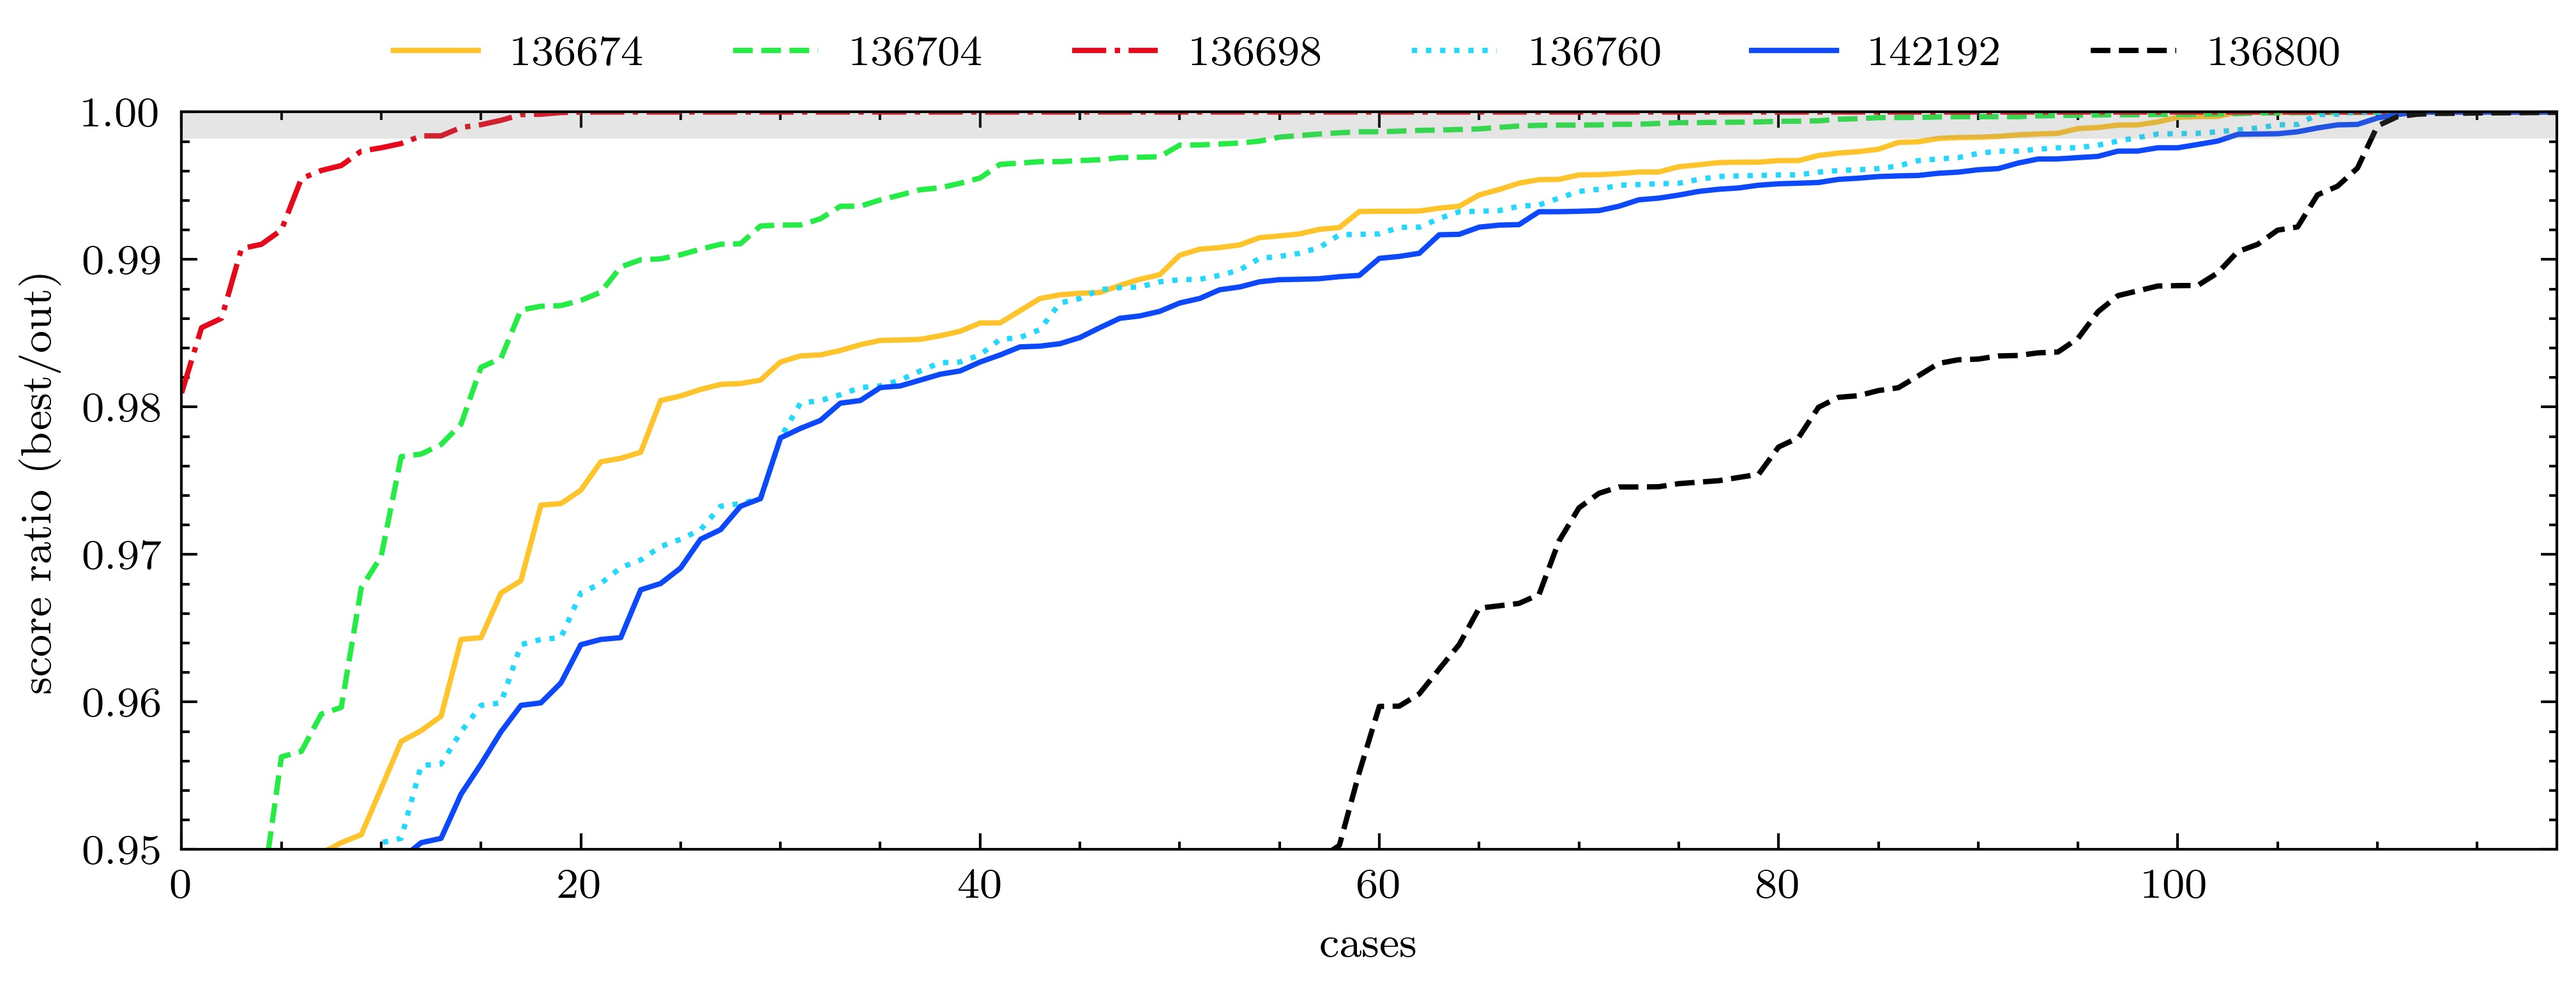
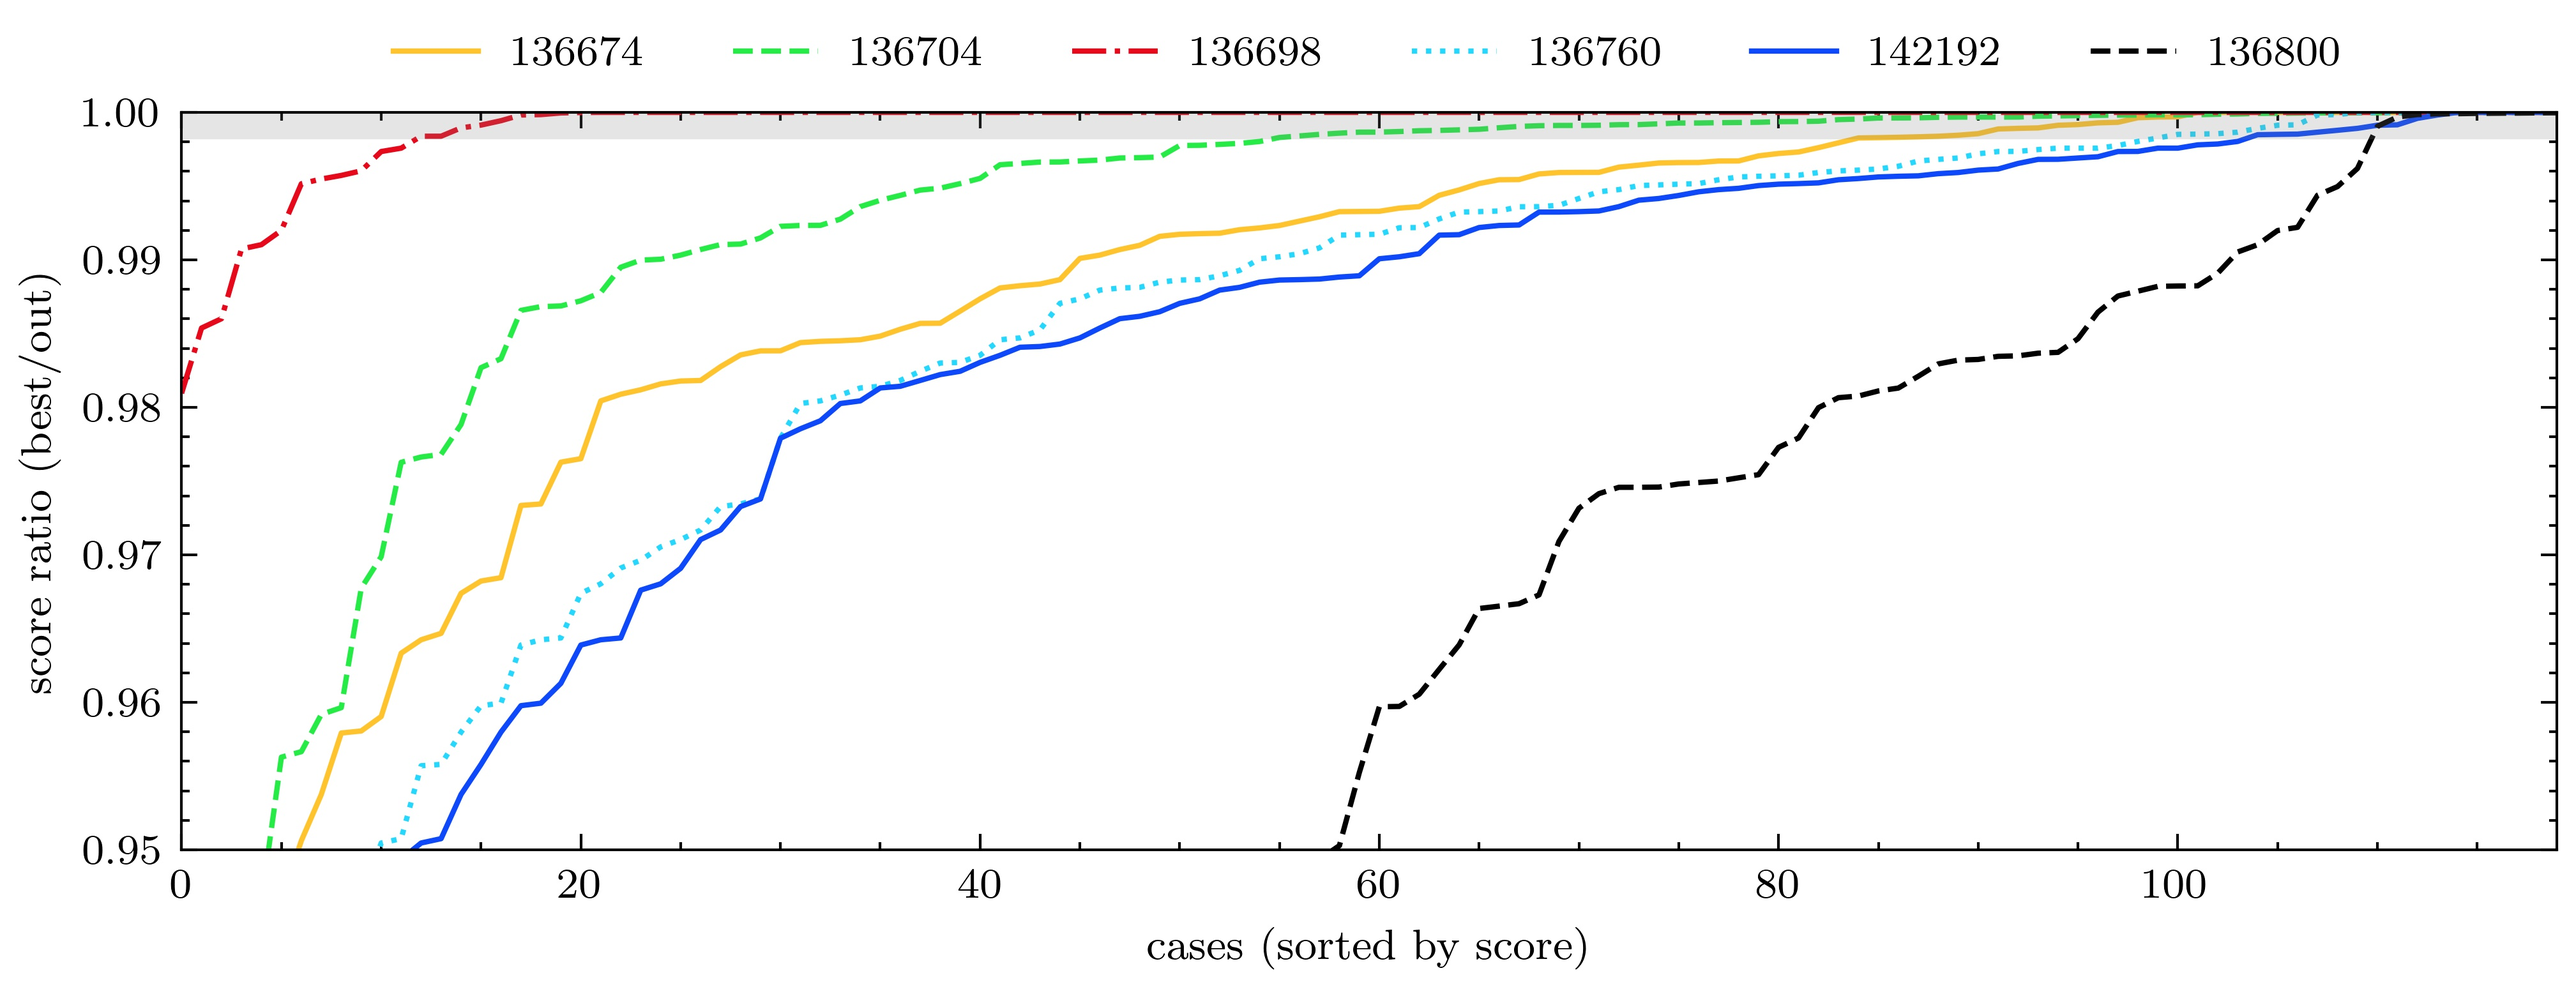
pretty rank vis.

diff --git a/plot.py b/plot.py
@@ -85,7 +85,7 @@ fig.set_size_inches(8, 2.5)
 
 plt.ylabel('score ratio (best/out)')
 plt.legend(loc="lower center", bbox_to_anchor=(0.5, 1),  ncol=7)
-plt.xlabel('cases')
+plt.xlabel('cases (sorted by score)')
 
 ax.set_ylim([0.95, val_max])
 plt.savefig('score.jpg')

diff --git a/README.md b/README.md
@@ -1,0 +1,1 @@
+![](./score.jpg)
